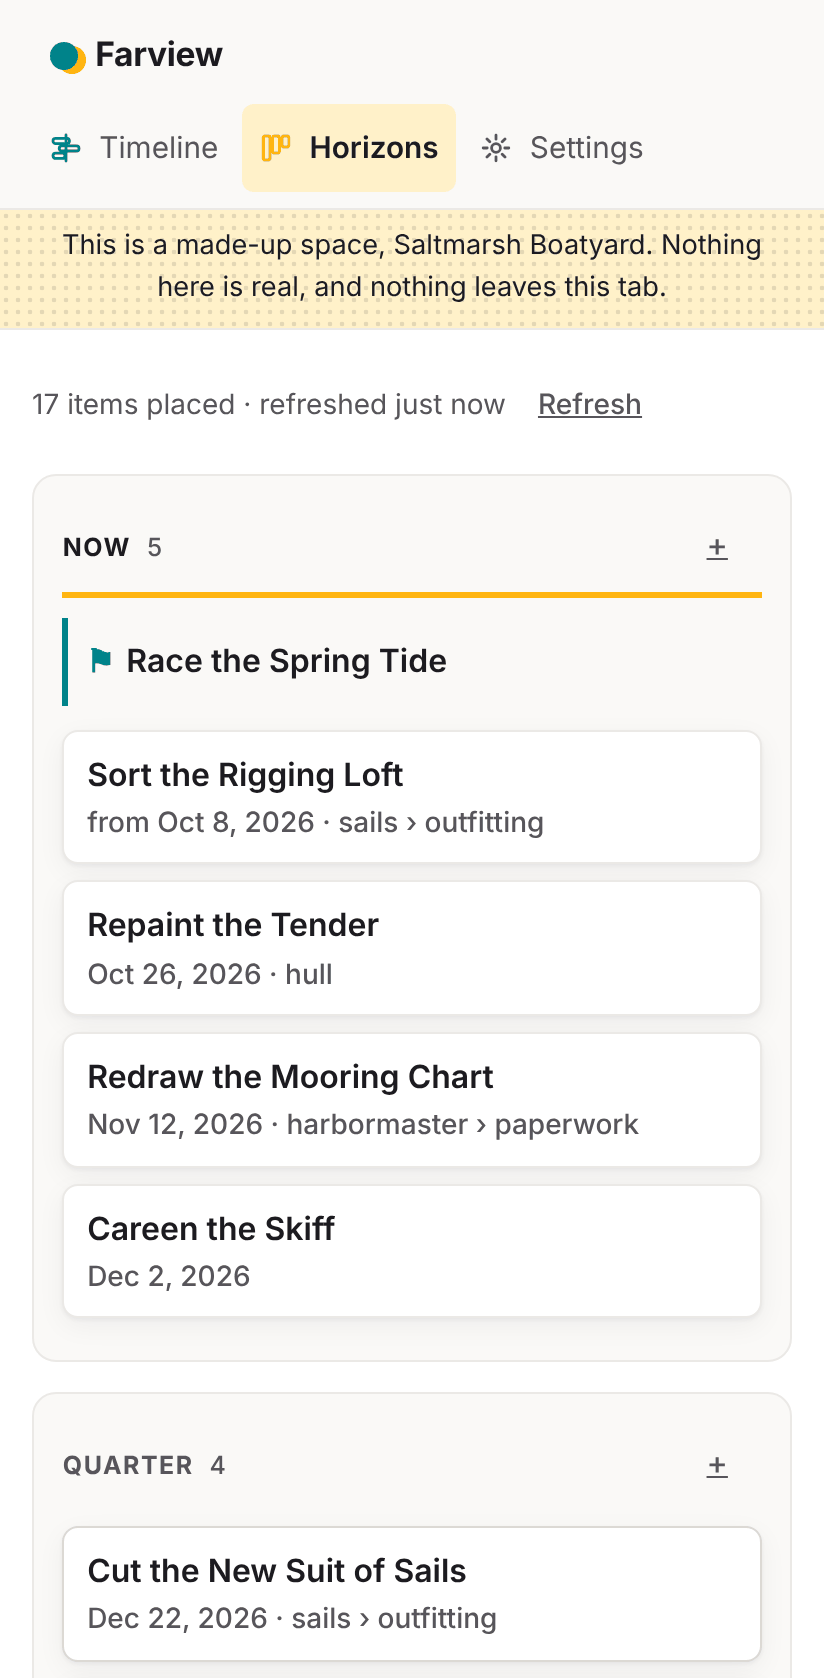
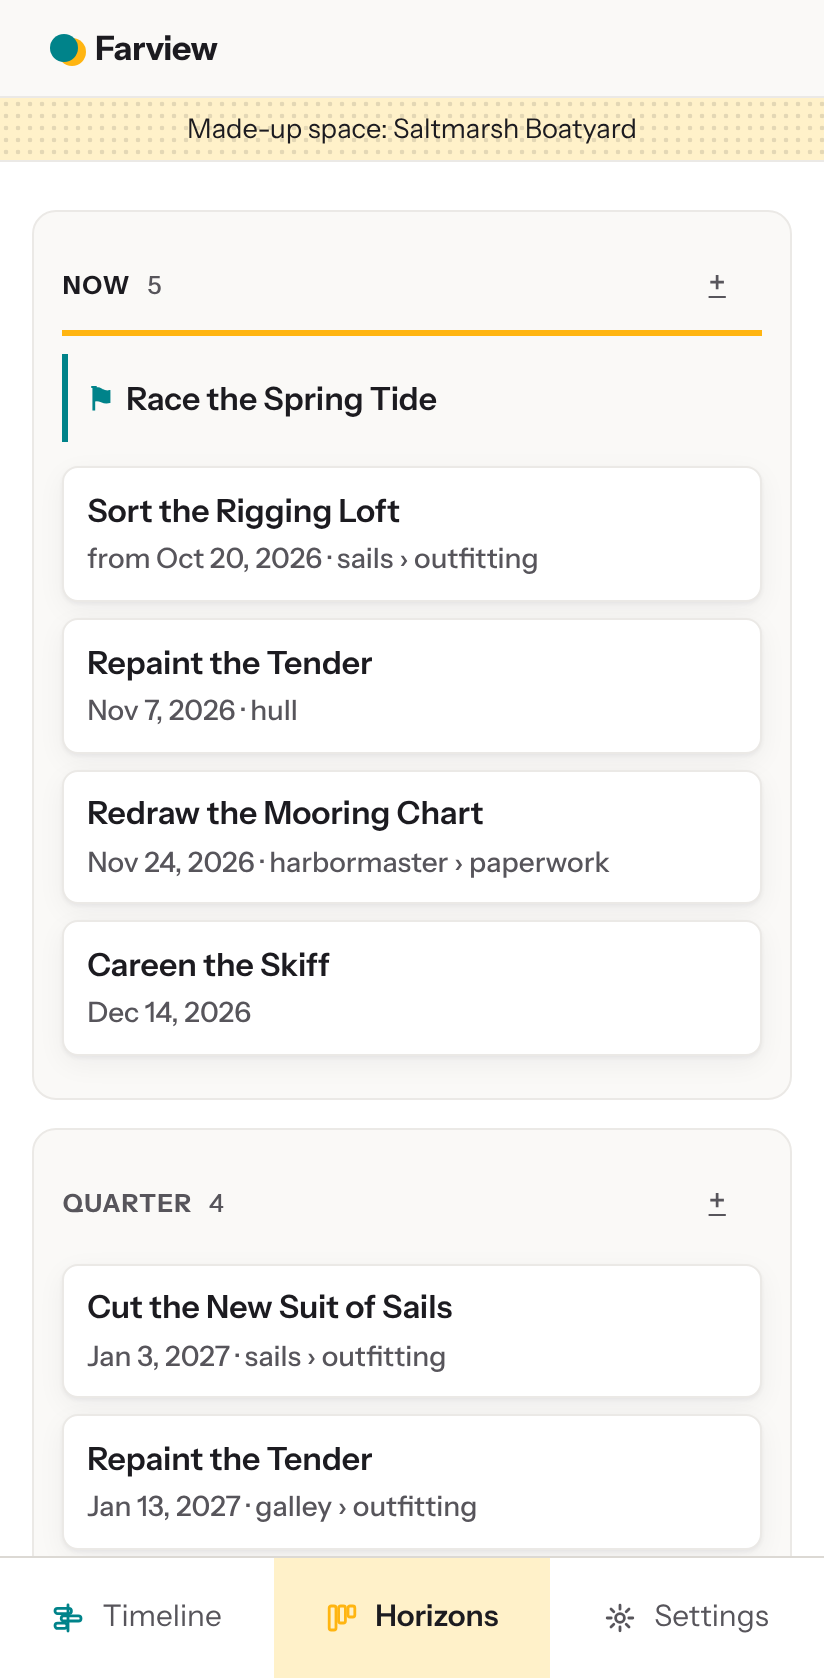
docs: screenshots from the redesign, before and after, status table
Claude-Session: https://claude.ai/code/session_01GMmJz3Pr9XhorVgYJST966

diff --git a/src/landing/main.tsx b/src/landing/main.tsx
@@ -1,6 +1,6 @@
 import { render } from 'preact';
 import timelineShot from '../../docs/timeline.png';
-import decadeShot from '../../docs/decade.png';
+import farViewShot from '../../docs/far-view.png';
 import phoneTimelineShot from '../../docs/phone-timeline.png';
 import phoneHorizonsShot from '../../docs/phone-horizons.png';
 
@@ -40,7 +40,7 @@ function Landing() {
           width={1280}
           height={880}
           loading="lazy"
-          alt="The Farview timeline for a synthetic boatyard: lanes of teal and sunflower bars, a sunflower band marking today, and small flags for goals."
+          alt="The Farview timeline for a synthetic boatyard: lanes of teal and sunflower bars named above each bar, a thin line marking today, and small flags for goals."
         />
       </picture>
 
@@ -130,7 +130,7 @@ function Landing() {
       <picture>
         <source media={PHONE} srcset={phoneHorizonsShot} width={824} height={1678} />
         <img
-          src={decadeShot}
+          src={farViewShot}
           width={1280}
           height={800}
           loading="lazy"

diff --git a/README.md b/README.md
@@ -4,7 +4,7 @@
 
 **See your goals across time, in Capacities.**
 
-![The Farview timeline on the synthetic Saltmarsh Boatyard demo: lanes of teal and sunflower bars grouped by pillar and area, a sunflower band with an ink line marking today, and small flags for goals. A banner at the top says the space is made up.](docs/timeline.png)
+![The Farview timeline on the synthetic Saltmarsh Boatyard demo: lanes of teal and sunflower bars grouped by pillar and area, each named above its bar, a thin ink line marking today, and small flags for goals. A banner at the top says the space is made up.](docs/timeline.png)
 
 > **Disclaimer:** Farview is an independent community tool. It is not affiliated with, endorsed by, or sponsored by Capacities. Capacities is a trademark of its respective owners.
 
@@ -74,7 +74,7 @@ If your space links things together, like a project pointing at its goal or a go
 - **A goal or project with no dates of its own** takes its span from its dated children. It shows as a dashed outline, labelled as derived, and goes away once you give it real dates.
 - With editing on, **+ Project and + Action on a detail page** create children that are already linked to that item.
 
-![A project's detail page: a breadcrumb up to its goal, its dates and progress counts, and a small timeline of its own actions.](docs/detail.png)
+![A project's detail page: a breadcrumb up to its goal, its dates, how many actions it holds, and a small timeline of its own actions.](docs/detail.png)
 
 ## Seeing the load, and saving the view
 
@@ -103,7 +103,7 @@ Farview needs one object type whose objects have a date, such as a Project type 
 2. Tick what Farview found in your space, such as "Your projects are Project". If it can't tell, or you pick **Set it up by hand**, choose your project type and its date properties. The preview shows your own timeline as you go.
 3. Open the timeline. The timeline and Horizons views use the same data, on desktop and on phone. Goals, milestones and up to two levels of grouping are optional, and live under **More options** in Settings.
 
-![The first screen on a synthetic space: "Your projects are Project", ticked, with its start, target and status properties, and a button that opens the timeline.](docs/setup.png)
+![The first screen on a synthetic space: the timeline drawn from what Farview found, a button that opens it, and "Looks wrong? Adjust" beneath.](docs/setup.png)
 
 You don't need an account to look around: **Try the demo** runs on a made-up space, entirely in your tab.
 

diff --git a/docs/design-redesign-plan.md b/docs/design-redesign-plan.md
@@ -97,8 +97,21 @@ From the code audit of 2026-11-18:
 |---|---|---|---|
 | Review of the running app | Done | this file | 2026-11-18 |
 | Mockup | Published, timeline only: today's Decade zoom beside the far view | https://claude.ai/artifact/1MkefyeDo3Ehnii4zR3TTs | 2026-11-19 |
-| Saj picks a direction | Open. A, B or C on the mockup page | | |
-| Build and pull request | Not started | | |
+| Saj picks a direction | Done. A: the far view as drawn, replacing Decade. Thin today line on every zoom | | 2026-11-19 |
+| Build and pull request | In review | PRLINK | 2026-11-19 |
+| Identity mockup (sidebar, banner, palette) | Not started. Saj asked for a mockup before any full restyle | | |
+| Identity build | Waiting on the identity mockup | | |
+
+Notes from the build, 2026-11-19:
+
+- Typeface: Instrument Sans, self-hosted, picked in the build at Saj's request. Swap it at the
+  identity mockup if it is wrong.
+- First content on a 390 by 844 phone: 105px on Horizons, 146px to the chart and 176px to the
+  first item on the timeline (424px and 650px before).
+- Date inputs and "+ Action" on item detail were already shown only with editing on. The demo
+  runs with editing on, which is why the review saw them.
+- Shared with Yesteryear and not mirrored from here: `font-src 'self'` in the CSP,
+  `viewport-fit=cover`, and the landing page's `/app/#demo` link.
 
 ## Starting a session on this build
 
